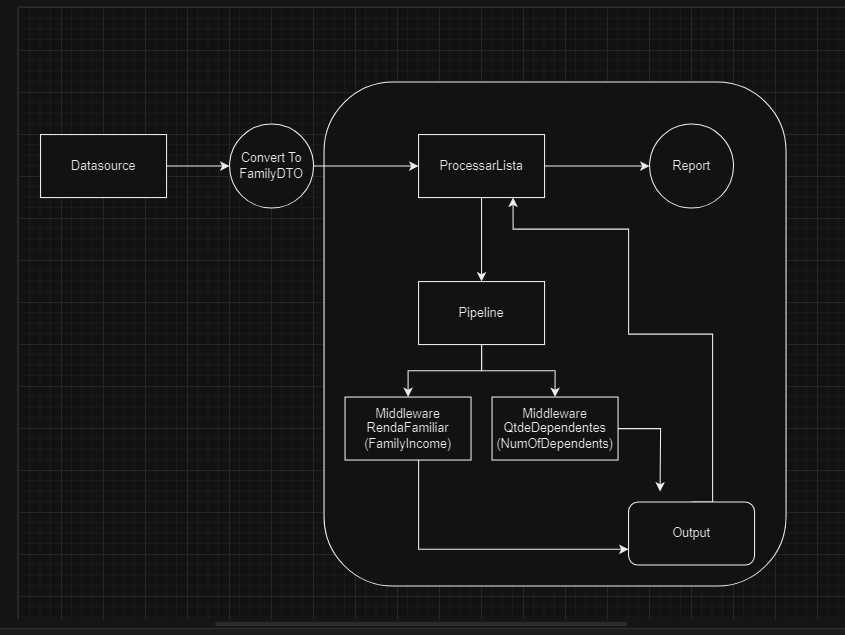
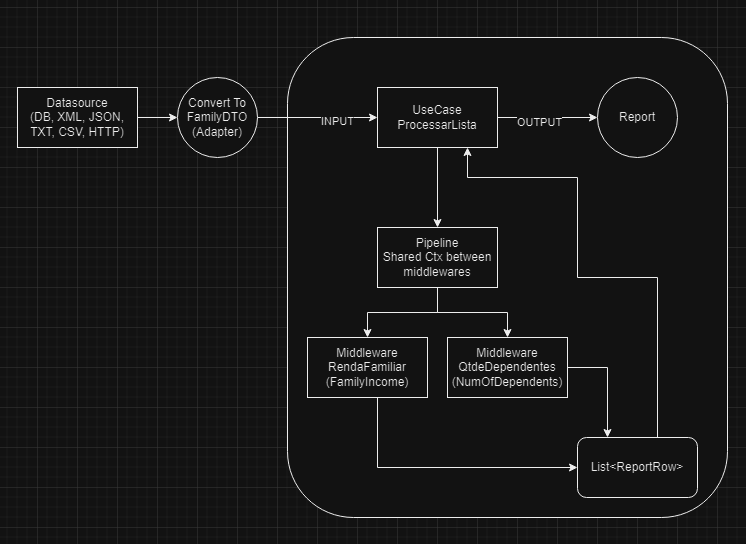
added Decorator Pattern Alternative

diff --git a/FamilyRegistration.Tests/Decorator/DecoratorTests.cs b/FamilyRegistration.Tests/Decorator/DecoratorTests.cs
@@ -1,0 +1,70 @@
+using FamilyRegistration.Core;
+using FamilyRegistration.Core.Decorators;
+using FluentAssertions;
+
+namespace FamilyRegistration.Tests.Decorator;
+public class DecoratorTests
+{
+    public DecoratorTests()
+    {
+
+    }
+
+    private static IScoreCalculator GetScoreCalculatorDefault()
+    {
+        //IScoreCalculator calculator = new NumOfDependetsDecorator(new FamilyIncomeDecorator(new ScoreCalculator()));
+
+        IScoreCalculator scoreCalculator = new ScoreCalculator();
+        scoreCalculator = new NumOfDependentsDecorator(scoreCalculator);
+        scoreCalculator = new FamilyIncomeDecorator(scoreCalculator);
+
+        return scoreCalculator;
+    }
+
+    [Fact]
+    public async void CalcScoreUsingDecoratorsShouldReturn_7()
+    {
+        //arrange 
+        var ctx = new FamilyRegistrationContext()
+        {
+            Key = Guid.NewGuid().ToString(),
+            NumOfDependents = 2,
+            FamilyIncome = 900
+        };
+
+        var scoreCalculator = GetScoreCalculatorDefault();
+
+        //act
+        await scoreCalculator.Execute(ctx);
+
+        //assert
+        ctx.Score.Should().Be(7);
+        ctx.Errors.Should().HaveCount(0);
+    }
+
+    [Fact]
+    public async void CalcScoreUsingDecoratorsShouldReturn_8()
+    {
+        //arrange 
+        //arrange
+        var ctx = new FamilyRegistrationContext()
+        {
+            Key = Guid.NewGuid().ToString(),
+            NumOfDependents = 3,
+            FamilyIncome = 899
+        };
+
+        var scoreCalculator = GetScoreCalculatorDefault();
+
+        //act
+        await scoreCalculator.Execute(ctx);
+
+        //assert
+        ctx.Score.Should().Be(8);
+        ctx.Errors.Should().HaveCount(0);
+    }
+
+    //arrange
+
+
+}

diff --git a/FamilyRegistration.Core/Decorators/NumOfDependentsDecorator.cs b/FamilyRegistration.Core/Decorators/NumOfDependentsDecorator.cs
@@ -1,0 +1,23 @@
+namespace FamilyRegistration.Core.Decorators;
+
+public class NumOfDependentsDecorator : BaseDecorator
+{
+    public NumOfDependentsDecorator(IScoreCalculator wrapped) : base(wrapped)
+    {
+    }
+
+    public override Task Execute(FamilyRegistrationContext context)
+    {
+        var valueToIncrement = context.NumOfDependents switch
+        {
+            >= 1 and <= 2 => 2,
+            >= 3 => 3,
+            _ => 0
+
+        };
+
+        context.IncrementScore(valueToIncrement);
+
+        return base.Execute(context);
+    }
+}

diff --git a/FamilyRegistration.Core/Decorators/FamilyIncomeDecorator.cs b/FamilyRegistration.Core/Decorators/FamilyIncomeDecorator.cs
@@ -1,0 +1,22 @@
+namespace FamilyRegistration.Core.Decorators;
+
+public class FamilyIncomeDecorator : BaseDecorator
+{
+    public FamilyIncomeDecorator(IScoreCalculator wrapped) : base(wrapped)
+    {
+    }
+
+    public override Task Execute(FamilyRegistrationContext context)
+    {
+        var valueToIncrement = context.FamilyIncome switch
+        {
+            <= 900 => 5,
+            > 900 and <= 1500 => 3,
+            _ => 0
+        };
+
+        context.IncrementScore(valueToIncrement);
+
+        return base.Execute(context);
+    }
+}

diff --git a/FamilyRegistration.Core/Decorators/BaseDecorator.cs b/FamilyRegistration.Core/Decorators/BaseDecorator.cs
@@ -1,0 +1,15 @@
+namespace FamilyRegistration.Core.Decorators;
+public abstract class BaseDecorator : IScoreCalculator
+{
+    private readonly IScoreCalculator _wrapped;
+
+    protected BaseDecorator(IScoreCalculator wrapped)
+    {
+        _wrapped = wrapped;
+    }
+
+    public virtual Task Execute(FamilyRegistrationContext context)
+    {
+        return _wrapped.Execute(context);
+    }
+}

diff --git a/FamilyRegistration.Tests/PipelineTests/ScoreTests.cs b/FamilyRegistration.Tests/PipelineTests/ScoreTests.cs
@@ -1,9 +1,10 @@
-using FamilyRegistration.Core.Middlewares;
+using FamilyRegistration.Core;
 using FamilyRegistration.Core.Pipelines;
+using FamilyRegistration.Core.Pipelines.Middlewares;
 using FluentAssertions;
 using MiddlewarePipelineLib;
 
-namespace FamilyRegistration.Tests.IntegrationTests;
+namespace FamilyRegistration.Tests.PipelineTests;
 
 public class ScoreTests
 {

diff --git a/FamilyRegistration.Tests/PipelineTests/NumOfDependentesScoreMiddlewareTests.cs b/FamilyRegistration.Tests/PipelineTests/NumOfDependentesScoreMiddlewareTests.cs
@@ -1,8 +1,8 @@
 using FamilyRegistration.Core;
-using FamilyRegistration.Core.Middlewares;
+using FamilyRegistration.Core.Pipelines.Middlewares;
 using FluentAssertions;
 
-namespace FamilyRegistration.Tests.UnitTests;
+namespace FamilyRegistration.Tests.PipelineTests;
 
 public class NumOfDependentesScoreMiddlewareTests
 {

diff --git a/FamilyRegistration.Tests/PipelineTests/FamilyIncomeScoreMiddlewareTests.cs b/FamilyRegistration.Tests/PipelineTests/FamilyIncomeScoreMiddlewareTests.cs
@@ -1,8 +1,8 @@
 using FamilyRegistration.Core;
-using FamilyRegistration.Core.Middlewares;
+using FamilyRegistration.Core.Pipelines.Middlewares;
 using FluentAssertions;
 
-namespace FamilyRegistration.Tests.UnitTests;
+namespace FamilyRegistration.Tests.PipelineTests;
 
 public class FamilyIncomeScoreMiddlewareTests
 {

diff --git a/FamilyRegistration.Tests/PipelineTests/ThrowExceptionMiddlewareTests.cs b/FamilyRegistration.Tests/PipelineTests/ThrowExceptionMiddlewareTests.cs
@@ -1,8 +1,8 @@
 using FamilyRegistration.Core;
-using FamilyRegistration.Core.Middlewares;
+using FamilyRegistration.Core.Pipelines.Middlewares;
 using FluentAssertions;
 
-namespace FamilyRegistration.Tests.UnitTests;
+namespace FamilyRegistration.Tests.PipelineTests;
 
 public class ThrowExceptionMiddlewareTests
 {

diff --git a/FamilyRegistration.Core/Pipelines/Middlewares/FamilyIncomeScoreMiddleware.cs b/FamilyRegistration.Core/Pipelines/Middlewares/FamilyIncomeScoreMiddleware.cs
@@ -1,6 +1,6 @@
 using MiddlewarePipelineLib;
 
-namespace FamilyRegistration.Core.Middlewares;
+namespace FamilyRegistration.Core.Pipelines.Middlewares;
 
 public class FamilyIncomeScoreMiddleware : IMiddleware<FamilyRegistrationContext>
 {

diff --git a/FamilyRegistration.Core/Pipelines/Middlewares/NumOfDependentsMiddleware.cs b/FamilyRegistration.Core/Pipelines/Middlewares/NumOfDependentsMiddleware.cs
@@ -1,6 +1,6 @@
 using MiddlewarePipelineLib;
 
-namespace FamilyRegistration.Core.Middlewares;
+namespace FamilyRegistration.Core.Pipelines.Middlewares;
 
 public class NumOfDependentsMiddleware : IMiddleware<FamilyRegistrationContext>
 {

diff --git a/FamilyRegistration.Core/Pipelines/Middlewares/ThrowExceptionMiddleware.cs b/FamilyRegistration.Core/Pipelines/Middlewares/ThrowExceptionMiddleware.cs
@@ -1,6 +1,6 @@
 using MiddlewarePipelineLib;
 
-namespace FamilyRegistration.Core.Middlewares;
+namespace FamilyRegistration.Core.Pipelines.Middlewares;
 
 public class ThrowExceptionMiddleware : IMiddleware<FamilyRegistrationContext>
 {

diff --git a/FamilyRegistration.Core/Decorators/ScoreCalculator.cs b/FamilyRegistration.Core/Decorators/ScoreCalculator.cs
@@ -1,0 +1,9 @@
+namespace FamilyRegistration.Core.Decorators;
+
+public sealed class ScoreCalculator : IScoreCalculator
+{
+    public Task Execute(FamilyRegistrationContext context)
+    {
+        return Task.CompletedTask;
+    }
+}
